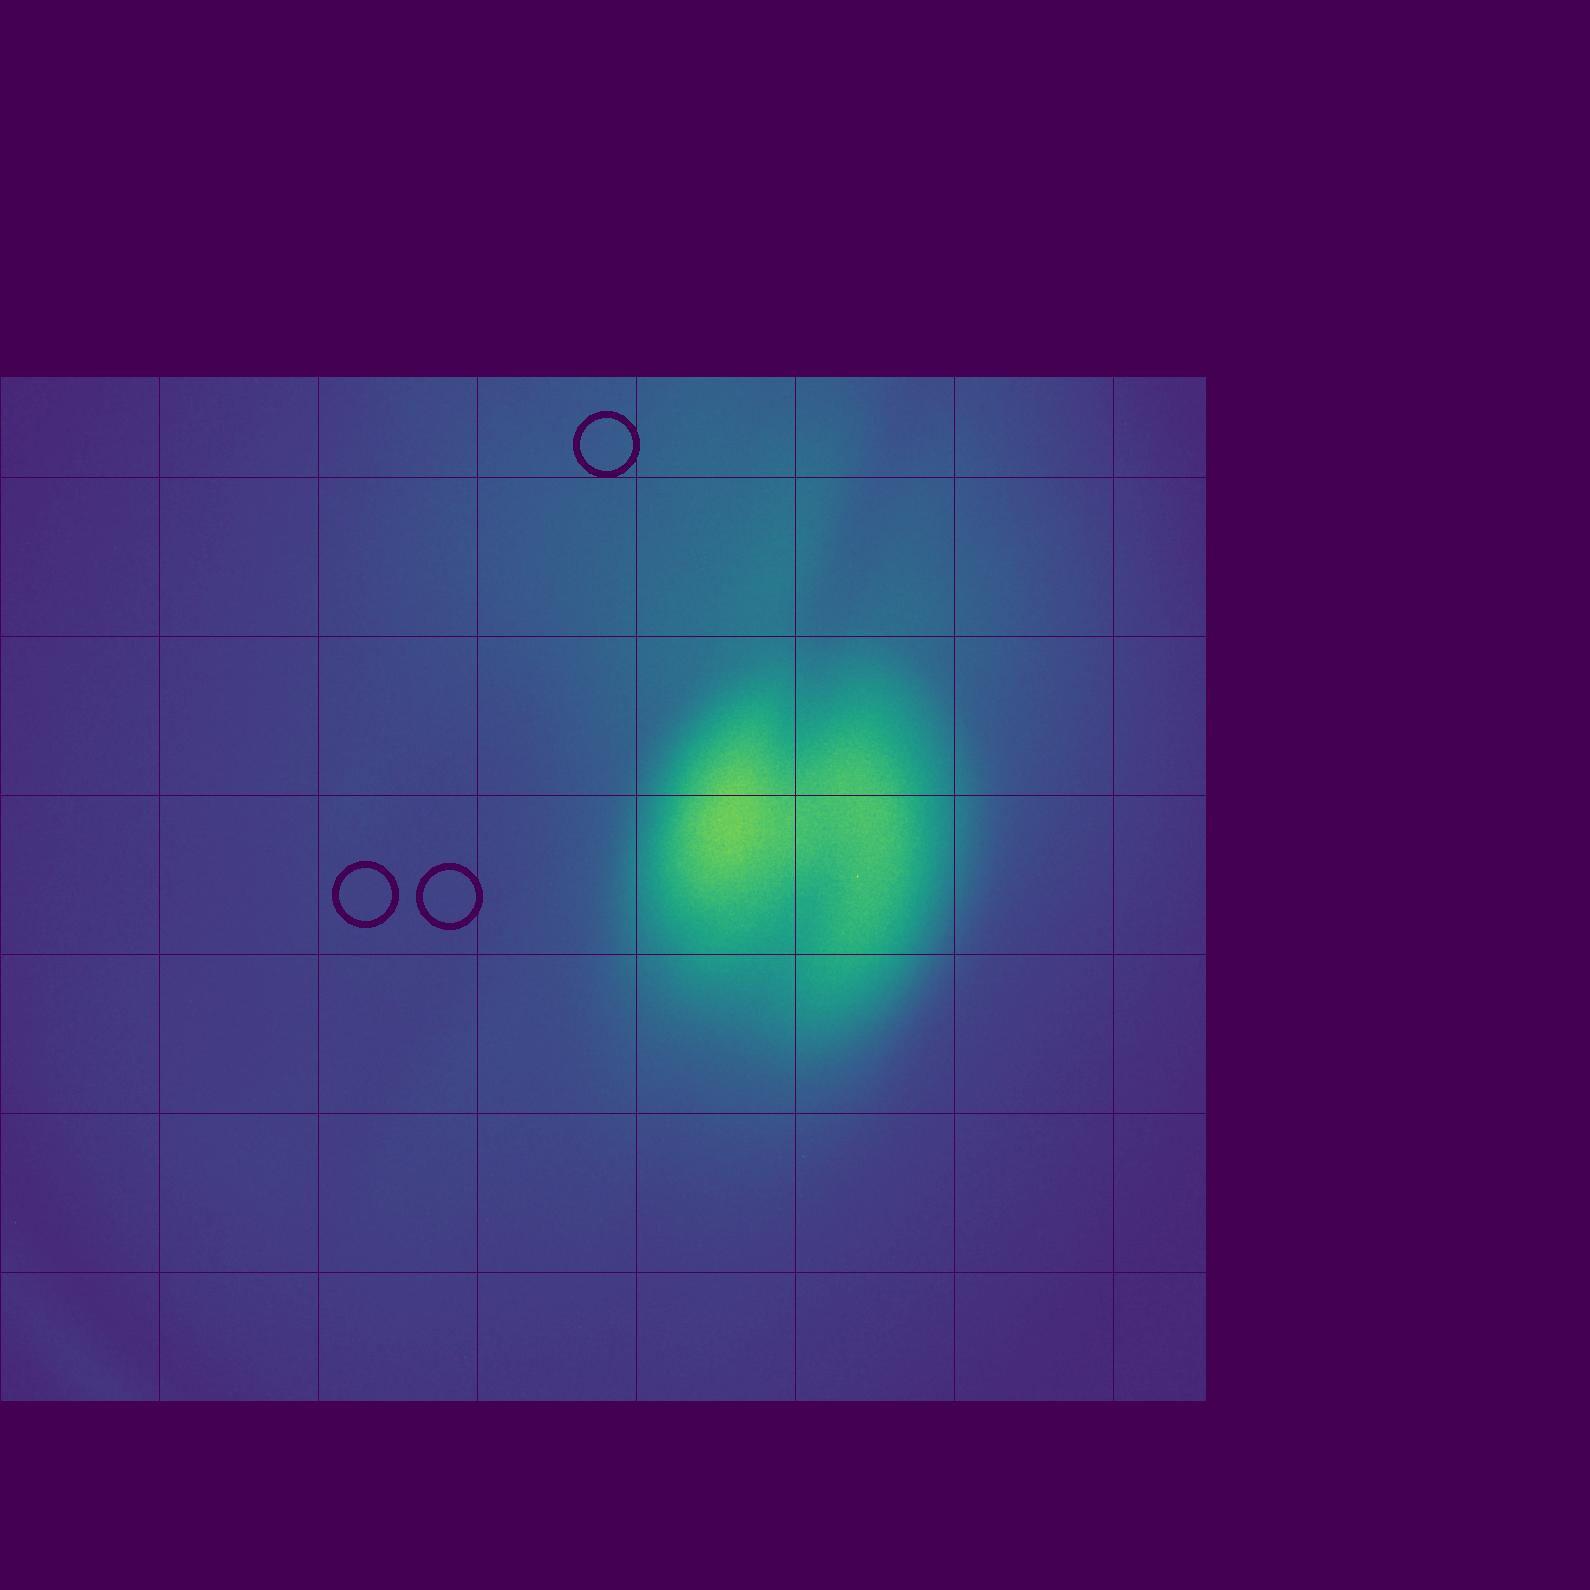
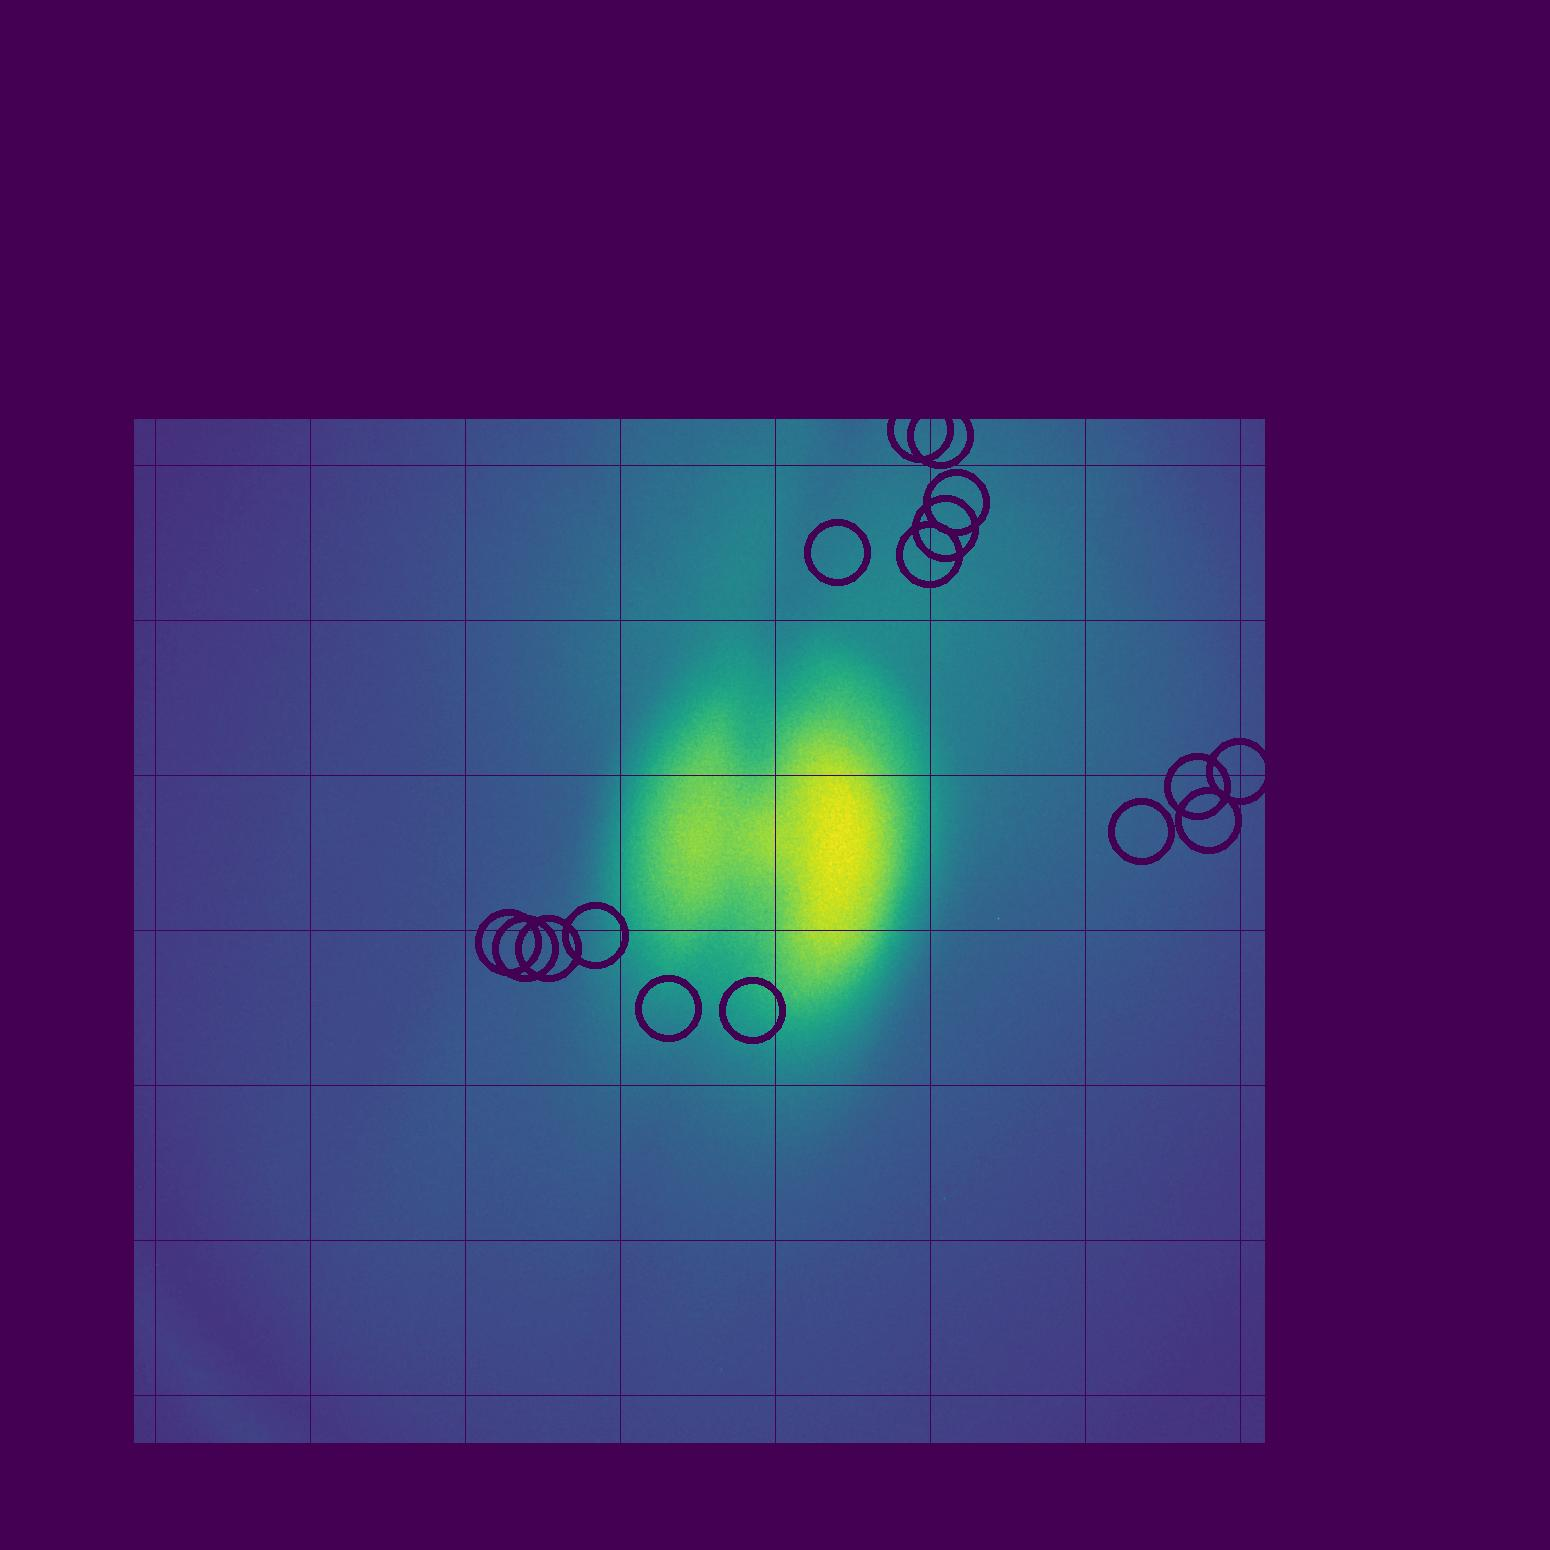
Add a few test files, and solved conditions for removing images

diff --git a/processImages.py b/processImages.py
@@ -16,11 +16,6 @@ import fnmatch
 import os
 
 
-# def getCollectionDirectory() -> str:
-#     collectionDir = askdirectory(title="Select the folder containing data")
-#     return collectionDir
-
-
 def mirrorImage(image) -> np.ndarray:
     mirroredImage = image[:,::-1,:]
     return mirroredImage
@@ -48,7 +43,12 @@ def removeBadImages(dataDictionary) -> dict:
     Threshold = np.mean(ii)
     index = np.where(ii > Threshold)
 
-    cleanDataDictionary = removeImagesFromIndex(dataDictionary, index)
+    if len(index[0]) == 0:
+        # Some images are too blurry, let's remove them
+        print("Removing images because they are too blurry.")
+        cleanDataDictionary = removeImagesFromIndex(dataDictionary, index)
+    else:
+        cleanDataDictionary = dataDictionary
 
     return cleanDataDictionary
 
@@ -237,6 +237,7 @@ def findImageShift(Image: np.ndarray, Margin=250, N=100) -> np.ndarray:
             totalShift = np.vstack((totalShift, np.sum(indexShift, axis=0)))
     return totalShift
 
+
 def newFindImageShift():
     """
     Find the image shift with the new ellipse finding algorithm parameters.
@@ -305,9 +306,14 @@ def placeRosa(gridParameters, shiftParameters, dataDictionary) -> list:
         outputLabels.append(temporaryLabel)
 
     # Remove images out of boundaries
-    imageDataDictionary = removeImagesFromIndex(dataDictionary, imageIndexesToRemove)
+    if imageIndexesToRemove != []:
+        print("Removing images because the ROSA is out of the grid.")
+        imageDataDictionary = removeImagesFromIndex(dataDictionary, imageIndexesToRemove)
+    else:
+        imageDataDictionary = dataDictionary
 
     return outputLabels, imageDataDictionary, imageIndexesToRemove
+
 
 def removeImagesFromIndex(dataDictionary, indexes):
     image = dataDictionary["image"]
@@ -335,12 +341,14 @@ def removeImagesFromIndex(dataDictionary, indexes):
 
     return imageDataDictionary
 
+
 def cleanShiftParameters(shiftParameters, indexesToRemove):
     xShift = shiftParameters[0]
     xShift = np.delete(xShift, indexesToRemove)
     yShift = shiftParameters[1]
     yShift = np.delete(yShift, indexesToRemove)
     return xShift, yShift
+
 
 def defineGrid(Image) -> tuple:
     # onh = optic nerve head
@@ -356,6 +364,7 @@ def defineGrid(Image) -> tuple:
     length = int((np.min([onhHeight, onhWidth]))/2)
     return onhCenterHorizontalCoords, onhCenterVerticalCoords, length
     # return xCenterGrid, yCenterGrid, length
+
 
 def oldPlotResult(Image, shiftParameters, gridParameters, rosaRadius=30) -> None:
     xCenterGrid = gridParameters[0]
@@ -399,23 +408,23 @@ def oldPlotResult(Image, shiftParameters, gridParameters, rosaRadius=30) -> None
     plt.imsave('Result_old.jpg', img)
 
 
-def plotResult(image, shiftParameters, gridParameters, rosaRadius=30, thickness=5) -> None:
-    image3D = drawRosaCircles(image, shiftParameters, rosaRadius=rosaRadius, thickness=thickness)
-    resultImage = prepareResultImage(image3D, gridParameters)
-    resultImageWithGrid = drawGrid(resultImage, gridParameters)
-    plt.imsave('Result.jpg', resultImageWithGrid)
+# def plotResult(image, shiftParameters, gridParameters, rosaRadius=30, thickness=5) -> None:
+#     image3D = drawRosaCircles(image, shiftParameters, rosaRadius=rosaRadius, thickness=thickness)
+#     resultImage = prepareResultImage(image3D, gridParameters)
+#     resultImageWithGrid = drawGrid(resultImage, gridParameters)
+#     plt.imsave('Result.jpg', resultImageWithGrid)
 
-def drawRosaCircles(image, shiftParameters, rosaRadius=30, thickness=5, color=(0, 1, 0)):
-    refImage = image[0,:,:]
-    image3D = makeImageRGB(refImage)
-    xRosa = shiftParameters[0]
-    yRosa = shiftParameters[1]
-    for j in range(xRosa.shape[0]):
-        centerCoordinates = (int(xRosa[j]), int(yRosa[j]))
-        #cv2.circle(image[0,:,:], centerCoordinates, rosaRadius, color, thickness)
-        cv2.circle(image3D, centerCoordinates, rosaRadius, color, thickness)
-    #plt.imsave("preimage3D.jpg", image3D) # same for old and new
-    return image3D
+# def drawRosaCircles(image, shiftParameters, rosaRadius=30, thickness=5, color=(0, 1, 0)):
+#     refImage = image[0,:,:]
+#     image3D = makeImageRGB(refImage)
+#     xRosa = shiftParameters[0]
+#     yRosa = shiftParameters[1]
+#     for j in range(xRosa.shape[0]):
+#         centerCoordinates = (int(xRosa[j]), int(yRosa[j]))
+#         #cv2.circle(image[0,:,:], centerCoordinates, rosaRadius, color, thickness)
+#         image3D = cv2.circle(image3D, centerCoordinates, rosaRadius, color, thickness)
+#     #plt.imsave("preimage3D.jpg", image3D) # same for old and new
+#     return image3D
 
 
 
@@ -432,17 +441,21 @@ def newPlotResult(image, shiftParameters, gridParameters, rosaRadius=30, thickne
     resultImageWithGrid = drawGrid(rescaledImageWithCircles, gridParameters)
     plt.imsave('Result.jpg', resultImageWithGrid)
 
+
 def makeImageRGB(grayImage):
     imageRGB = np.dstack((grayImage, grayImage, grayImage))
     return imageRGB
+
 
 def newDrawRosaCircles(rescaledImage, shiftParameters, LowSliceX, LowSliceY, rosaRadius=30, thickness=10, color=(0, 1, 0)):
     xRosa = shiftParameters[0]
     yRosa = shiftParameters[1]
     for j in range(xRosa.shape[0]):
+        print(j)
         centerCoordinates = (int(xRosa[j]) + LowSliceX, int(yRosa[j]) + LowSliceY)
         cv2.circle(rescaledImage, centerCoordinates, rosaRadius, color, thickness)
     return rescaledImage
+
 
 def rescaleImage(imageRGB, gridParameters):
     xCenterGrid = gridParameters[0]# int
@@ -465,6 +478,7 @@ def rescaleImage(imageRGB, gridParameters):
     # Slicing:
     gridImage[LOW_SLICE_Y:HIGH_SLICE_Y, LOW_SLICE_X:HIGH_SLICE_X, :] = temp
     return gridImage, LOW_SLICE_X, LOW_SLICE_Y
+
 
 def drawGrid(imageRGB, gridParameters):
     length = gridParameters[2]

diff --git a/main.py b/main.py
@@ -5,6 +5,9 @@ from processImages import *
 # New data:
 # collectionDir = r"./tests/TestImages/miniTestSampleNewData"
 
+# Test plot directory
+# collectionDir = r"./tests/TestImages/testPlot"
+
 # Backup USB on Mac OS:
 # collectionDir = r"/Volumes/DATA BACKUP/Baseline3/Bresil 1511184/20210316-100153-bresil-od-onh-rlp6"
 
@@ -49,7 +52,7 @@ Label, dataDictionary, indexesToRemove = placeRosa(gridParameters, shiftParamete
 
 shiftParameters = cleanShiftParameters(shiftParameters, indexesToRemove)
 
-shiftParameters = shiftParameters[0][:3], shiftParameters[1][:3]
+# shiftParameters = shiftParameters[0][:3], shiftParameters[1][:3]
 
 newPlotResult(image, shiftParameters, gridParameters)
 oldPlotResult(image, shiftParameters, gridParameters)
